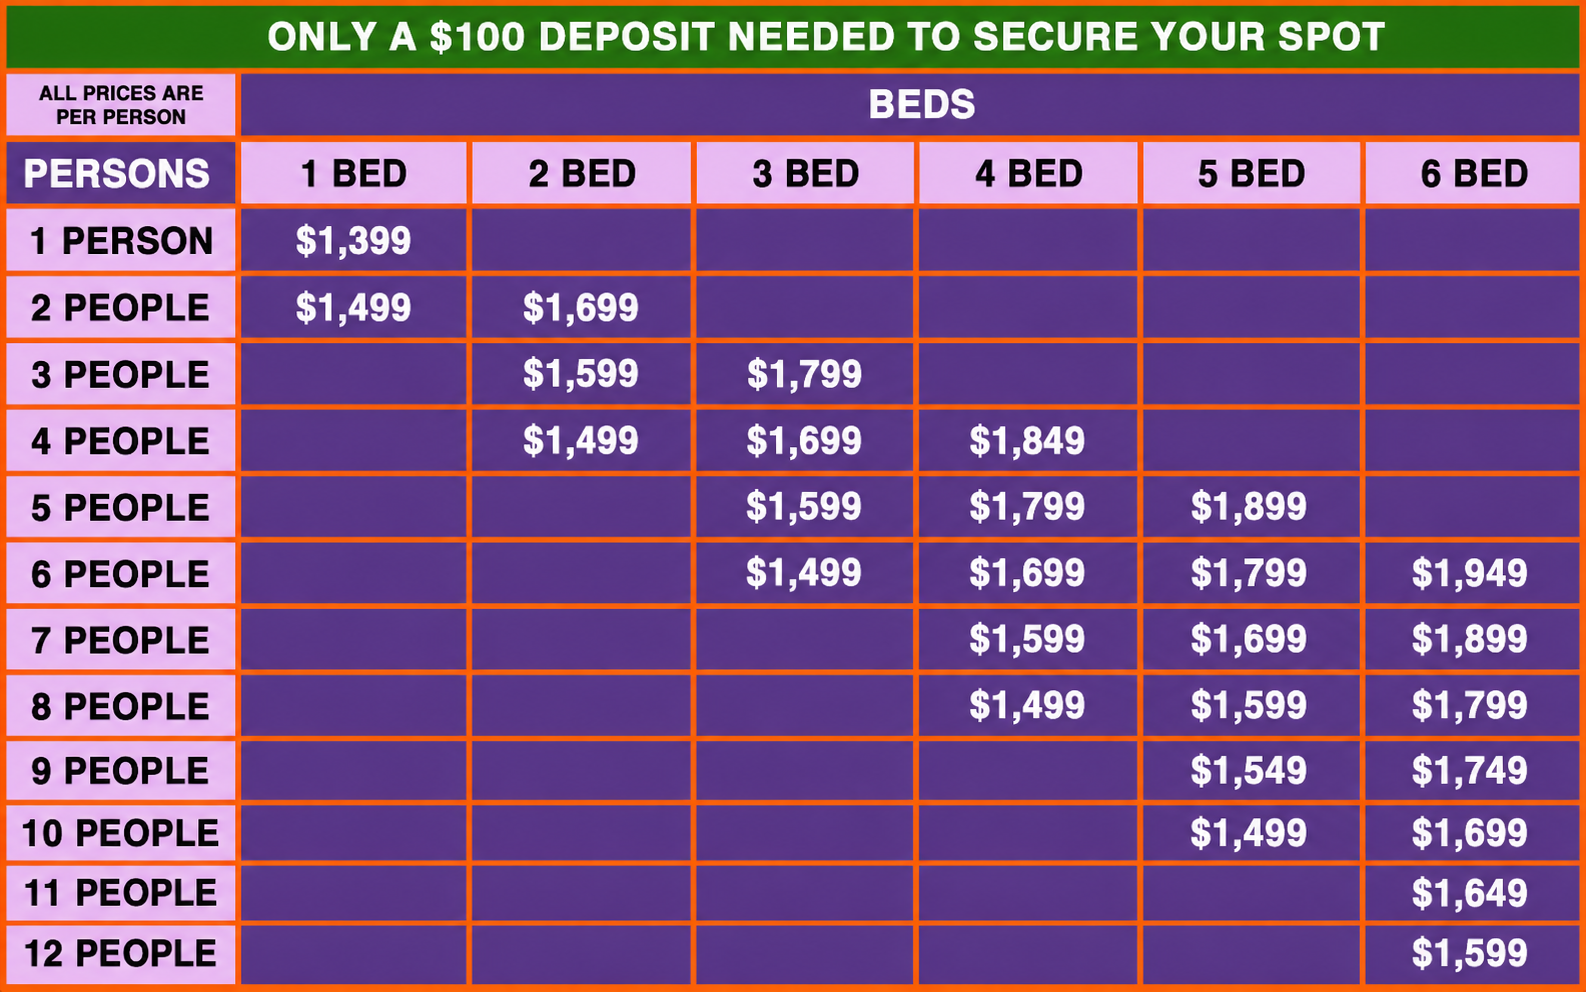
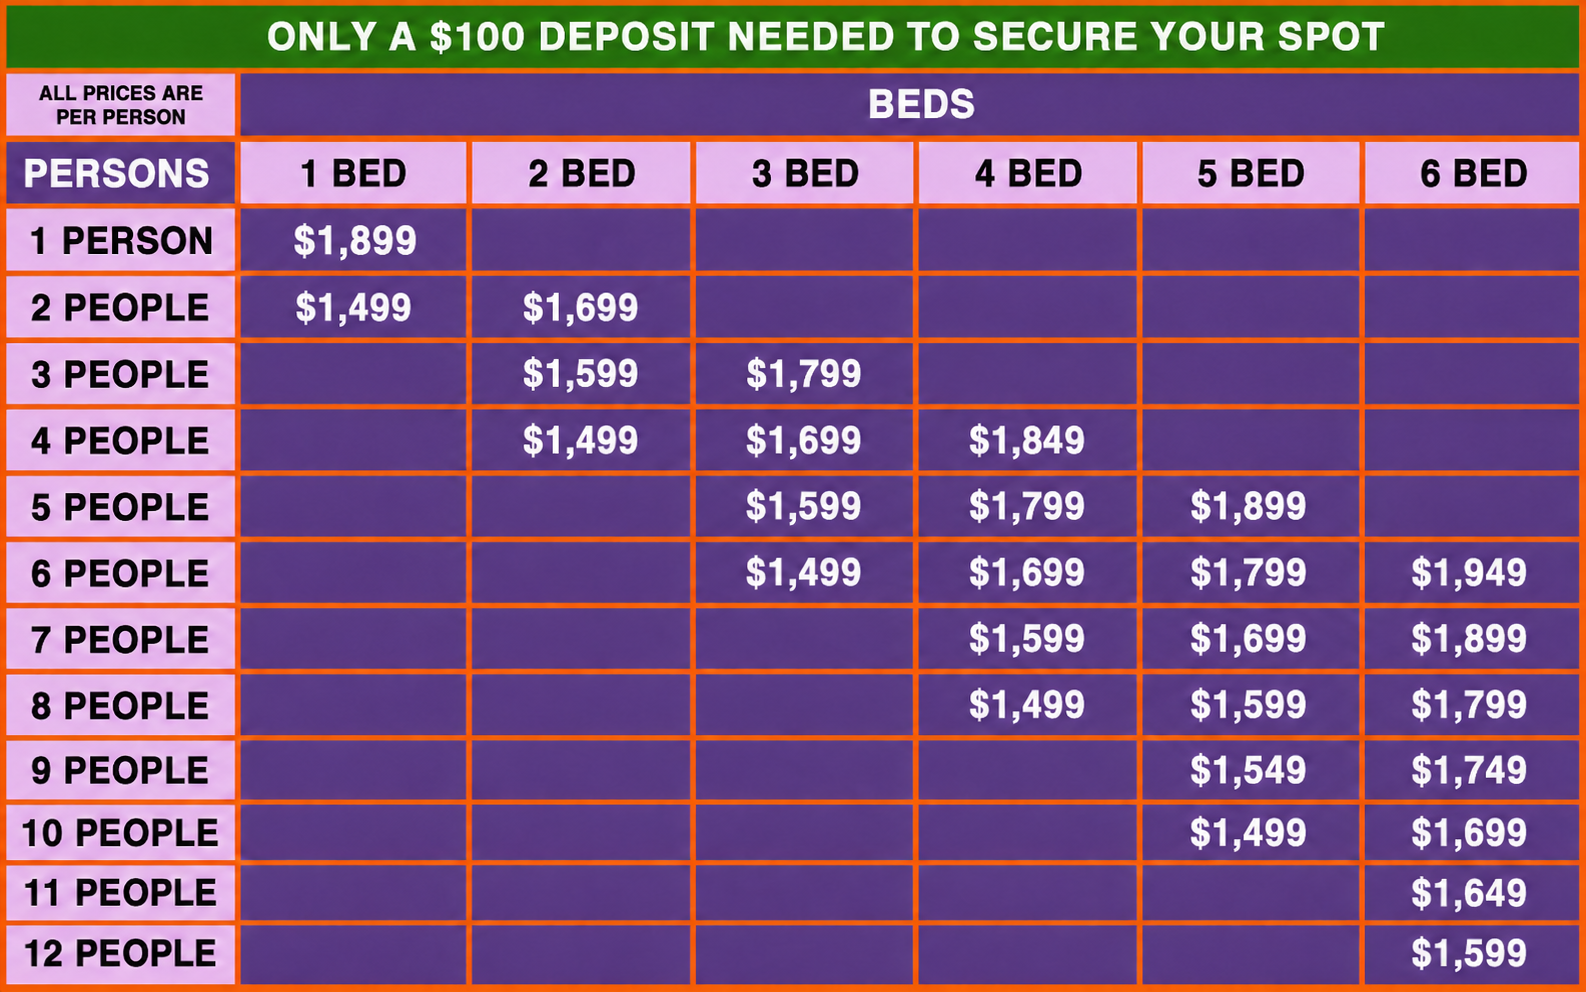
Update Villa A price and price table

diff --git a/villa-a.html b/villa-a.html
@@ -53,7 +53,7 @@
         </div>
       </div>
       <div class="villa-hero-center">
-        <p class="hero-price"><span class="hero-price-label">FROM</span><span class="hero-price-value">$1,299 pp</span></p>
+        <p class="hero-price"><span class="hero-price-label">FROM</span><span class="hero-price-value">$1,499 pp</span></p>
       </div>
       <div class="villa-hero-right">
         <a class="btn-book-now" href="#" data-booking-key="group1Url">BOOK NOW</a>
